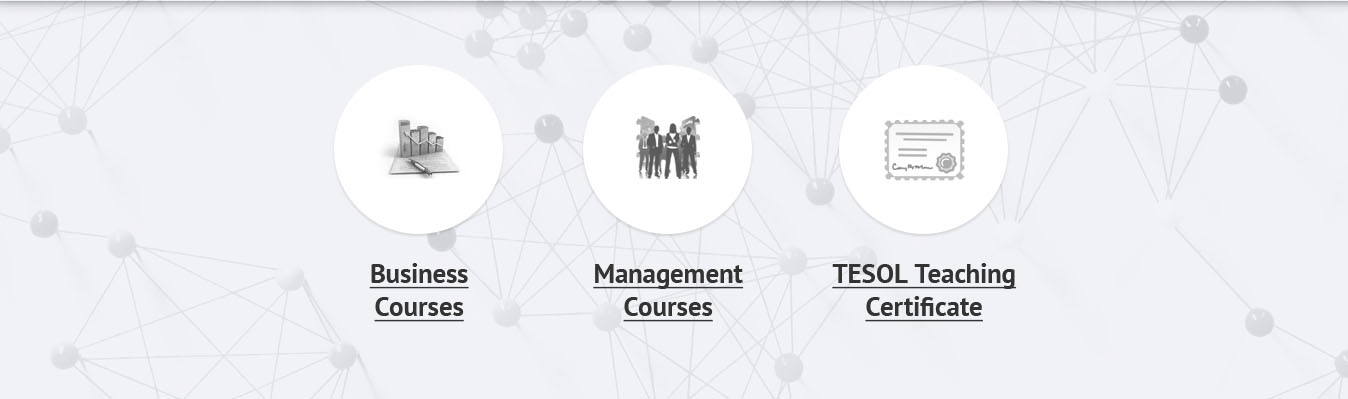
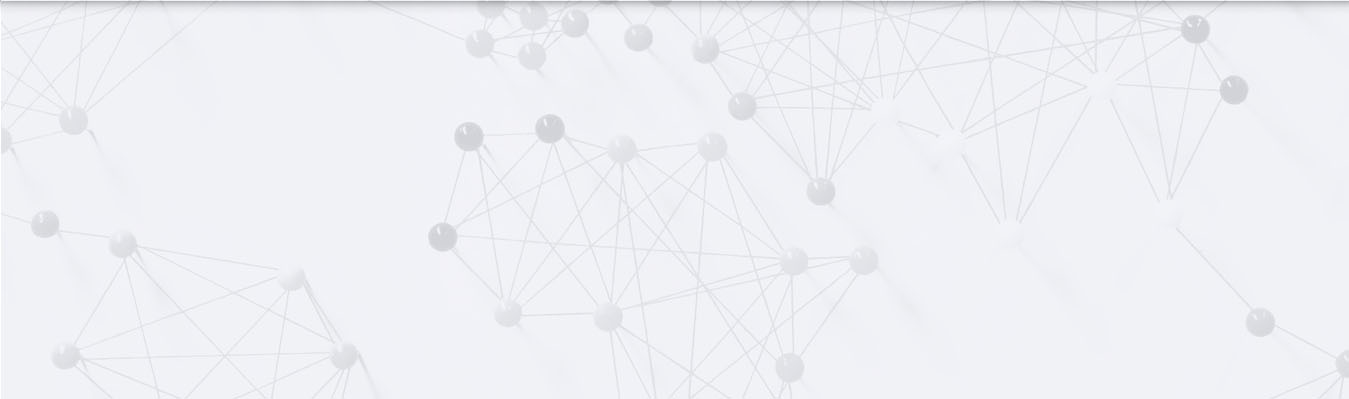
Final design with responsive

diff --git a/responsive.css b/responsive.css
@@ -23,6 +23,20 @@ font-size: 42px;
 .footer-menu ul li {
 padding: 0px 15px;
 }
+.image.fix {
+width: 150px;
+height: 150px;
+}
+.image.fix img {
+vertical-align: middle;
+margin-top: 35px;
+}
+h2.course {
+font-size: 27px;
+}
+.circle_course_area {
+padding: 75px 0px;
+}
 
 
 /* Mini computer */
@@ -52,8 +66,20 @@ font-size: 38px;
 .footer-menu ul li {
 padding: 0px 10px;
 }
-
-
+.image.fix {
+width: 150px;
+height: 150px;
+}
+.image.fix img {
+vertical-align: middle;
+margin-top: 35px;
+}
+h2.course {
+font-size: 27px;
+}
+.circle_course_area {
+padding: 75px 0px;
+}
 
 
 /* Tablet Layout: 768px. */
@@ -83,10 +109,20 @@ font-size: 34px;
 .footer-menu ul li {
 padding: 0px 7px;
 }
-
-
-
-
+.image.fix {
+width: 150px;
+height: 150px;
+}
+.image.fix img {
+vertical-align: middle;
+margin-top: 35px;
+}
+h2.course {
+font-size: 27px;
+}
+.circle_course_area {
+padding: 75px 0px;
+}
 
 }
 
@@ -154,6 +190,21 @@ margin: 0 auto;
 float: none;
 display: table;
 }
+.image.fix {
+width: 100px;
+height: 100px;
+}
+.image.fix img {
+vertical-align: middle;
+margin-top: 14px;
+}
+h2.course {
+font-size: 23px;
+}
+.circle_course_area {
+padding: 35px 0px;
+}
+
 
 }
 
@@ -215,9 +266,20 @@ margin: 0 auto;
 float: none;
 display: table;
 }
-
-
-
+.image.fix {
+width: 90px;
+height: 90px;
+}
+.image.fix img {
+vertical-align: middle;
+margin-top: 9px;
+}
+h2.course {
+font-size: 18px;
+}
+.circle_course_area {
+padding: 30px 0px;
+}
 
 }
 

diff --git a/style.css b/style.css
@@ -369,9 +369,21 @@ text-transform: uppercase;
 /**/
 
 /*style for the banar area*/
-.bannar_area.fix {
-cursor: pointer;
+.bannar_area {
+background: url(img/banar.jpg);
 }
+.image.fix {
+background: #fff;
+border-radius: 50%;
+text-align: center;
+margin: 0 auto;
+}
+h2.course {
+text-align: center;
+text-decoration: underline;
+color: #333333;
+}
+
 /**/
 
 /*style for the article area*/

diff --git a/index.php b/index.php
@@ -89,8 +89,29 @@
 		
 		<!-- Bannar ares -->
 		<div class="bannar_area fix">
-			<div class="container-fluid" style="padding:0px;">
-				<img class="img-responsive" src="img/banar.jpg" alt="" />
+			<div class="container">
+				<div class="row">
+					<div class="col-md-8 col-sm-11 col-xs-12 fix circle_course_area" style="margin:0 auto;float:none;">
+						<div class="col-md-4 col-sm-4 col-xs-4">
+							<div class="image fix" >
+								<img src="img/cir1.jpg" alt=""/>
+							</div>
+							<a href=""><h2 class="course">Business<br>Courses</h2></a>
+						</div>
+						<div class="col-md-4 col-sm-4 col-xs-4">
+							<div class="image fix" >
+								<img src="img/cir2.jpg" alt=""/>
+							</div>
+							<a href=""><h2 class="course">Management<br>Courses</h2></a>
+						</div>
+						<div class="col-md-4 col-sm-4 col-xs-4">
+							<div class="image fix" >
+								<img src="img/cir3.jpg" alt=""/>
+							</div>
+							<a href=""><h2 class="course">TESOL Teaching<br>Certificate</h2></a>
+						</div>
+					</div>
+				</div>
 			</div>
 		</div>
 		<!-- Bannar area end -->
